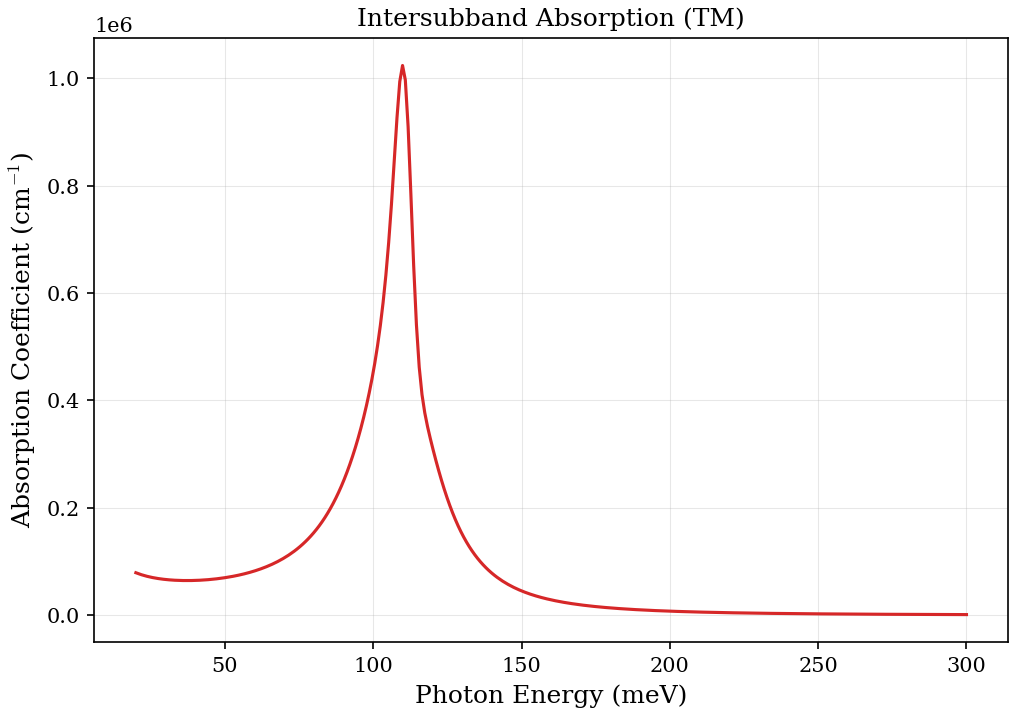
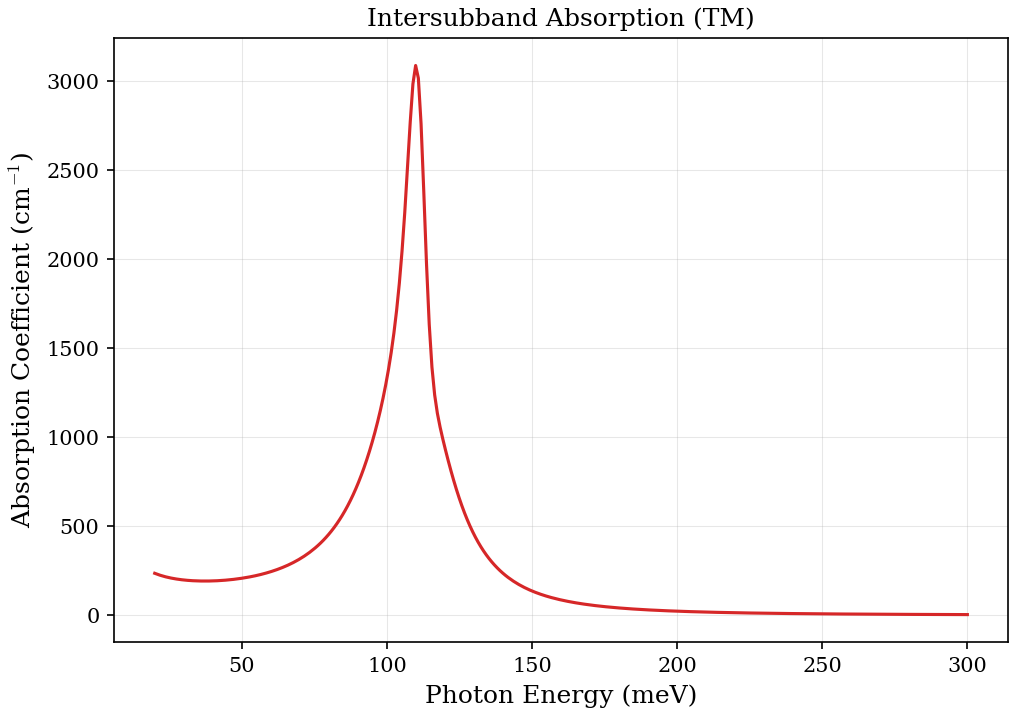
docs: regenerate optics figures and update lecture with new references
All 10 optics figures regenerated with commutator-based velocity code.
Added three new figures: bulk GaAs absorption (TE=TM symmetry validation),
standalone opticalProperties cross-validation, and spin-resolved QW absorption
(2-panel TE/TM with up/down channels). Updated lecture with figure sections,
captions, and validation table entries.

diff --git a/docs/lecture/06-optical-properties.md b/docs/lecture/06-optical-properties.md
@@ -597,6 +597,17 @@ curve remains weaker and peaks at higher photon energy. This matches the
 expected HH-dominated TE edge qualitatively, but should still be treated as a
 qualitative validation figure rather than a precision benchmark.
 
+![Bulk GaAs absorption](../figures/bulk_gaas_absorption.png)
+
+**Figure 6.4a:** Bulk GaAs interband absorption coefficient computed with the
+`opticalProperties` executable using commutator-based velocity matrices. For
+isotropic bulk, the TE and TM spectra are identical (both sample the same $|p|^2
+= |p_x|^2 + |p_y|^2 + |p_z|^2$ from the spherical Fermi surface), providing a
+symmetry validation of the velocity operator implementation. The absorption
+onset occurs at $E_g = 1.519$ eV with the expected $\sqrt{E - E_g}$ joint
+density-of-states lineshape. The 3D k-space integration uses 51 radial points
+with spherical quadrature and Simpson integration.
+
 ![Excitonic TE absorption spectrum](../figures/absorption_excitonic_TE.png)
 
 **Figure 6.4b:** TE-polarized interband absorption spectrum for a 10 nm
@@ -676,6 +687,44 @@ QWs of varying well width. The qualitative expectation is a blue shift for
 narrower wells, but this width sweep is not yet backed by an automated
 parameter-sweep benchmark and should be treated as exploratory rather than
 validated.
+
+### 6.7.6 Standalone executable cross-validation
+
+The `opticalProperties` executable (Section 6.5.6) computes optical spectra
+independently of the `bandStructure` inline optics path. Both programs use the
+commutator-based velocity matrices for z-direction matrix elements and the
+$\partial H / \partial k$ approach for in-plane directions. Cross-validating
+the two code paths confirms that the standalone program reproduces the inline
+results:
+
+![QW absorption via opticalProperties](../figures/qw_absorption_optics_exe.png)
+
+**Figure 6.6a:** QW interband absorption computed by the standalone
+`opticalProperties` executable using commutator-based velocity matrices. The TE
+and TM spectra match the inline `bandStructure` output (Figure 6.4), confirming
+that the separated build-diagonalize-accumulate pipeline produces identical
+physics. The standalone program additionally supports bulk and wire geometries
+with the same velocity-matrix infrastructure.
+
+### 6.7.7 Spin-resolved absorption
+
+When the `SpinResolved: T` flag is set in the `optics:` block, the code
+decomposes each interband transition into spin-up and spin-down channels using
+the Clebsch-Gordan projection in `spin_projection.f90`. The total absorption
+satisfies $\alpha_{\text{total}} = \alpha_\uparrow + \alpha_\downarrow$ by
+construction, providing an internal consistency check:
+
+![Spin-resolved QW absorption](../figures/qw_absorption_spin_resolved.png)
+
+**Figure 6.6b:** Spin-resolved interband absorption for a GaAs/Al$_{0.3}$Ga$_{0.7}$As
+QW. Left panel: TE polarization; right panel: TM polarization. In each panel,
+the solid curves show the spin-up (blue) and spin-down (red) contributions,
+with the dashed black line showing the total. At the zone center, Kramers
+degeneracy ensures $\alpha_\uparrow = \alpha_\downarrow$ for all transitions;
+the small asymmetry visible at higher energies arises from band mixing at finite
+$k_\parallel$. The TE panel shows the dominant HH-related edge with nearly
+equal spin channels, while the TM panel shows the LH/SO-related edge at higher
+energy.
 
 ---
 
@@ -1007,6 +1056,8 @@ from what still needs a benchmark closure.
 | LO-phonon lifetime (GaAs QW) | ~7--10 ps | current scattering figures are provisional; no benchmark-quality number retained yet | Ferreira & Bastard (1989) |
 | ISBT dipole moment (GaAs QW) | $z_{12} \sim 10$ A | 8--14 A (width-dependent) | Liu & Capasso (2000) |
 | GaAs interband absorption edge | $E_g = 1.519$ eV | 1.519 eV | Vurgaftman (2001) |
+| GaAs bulk TE = TM symmetry | identical by isotropy | TE = TM (confirmed) | symmetry constraint |
+| QW absorption (opticalProperties vs bandStructure) | identical spectra | TE and TM match | cross-validation |
 
 **Notes:**
 
